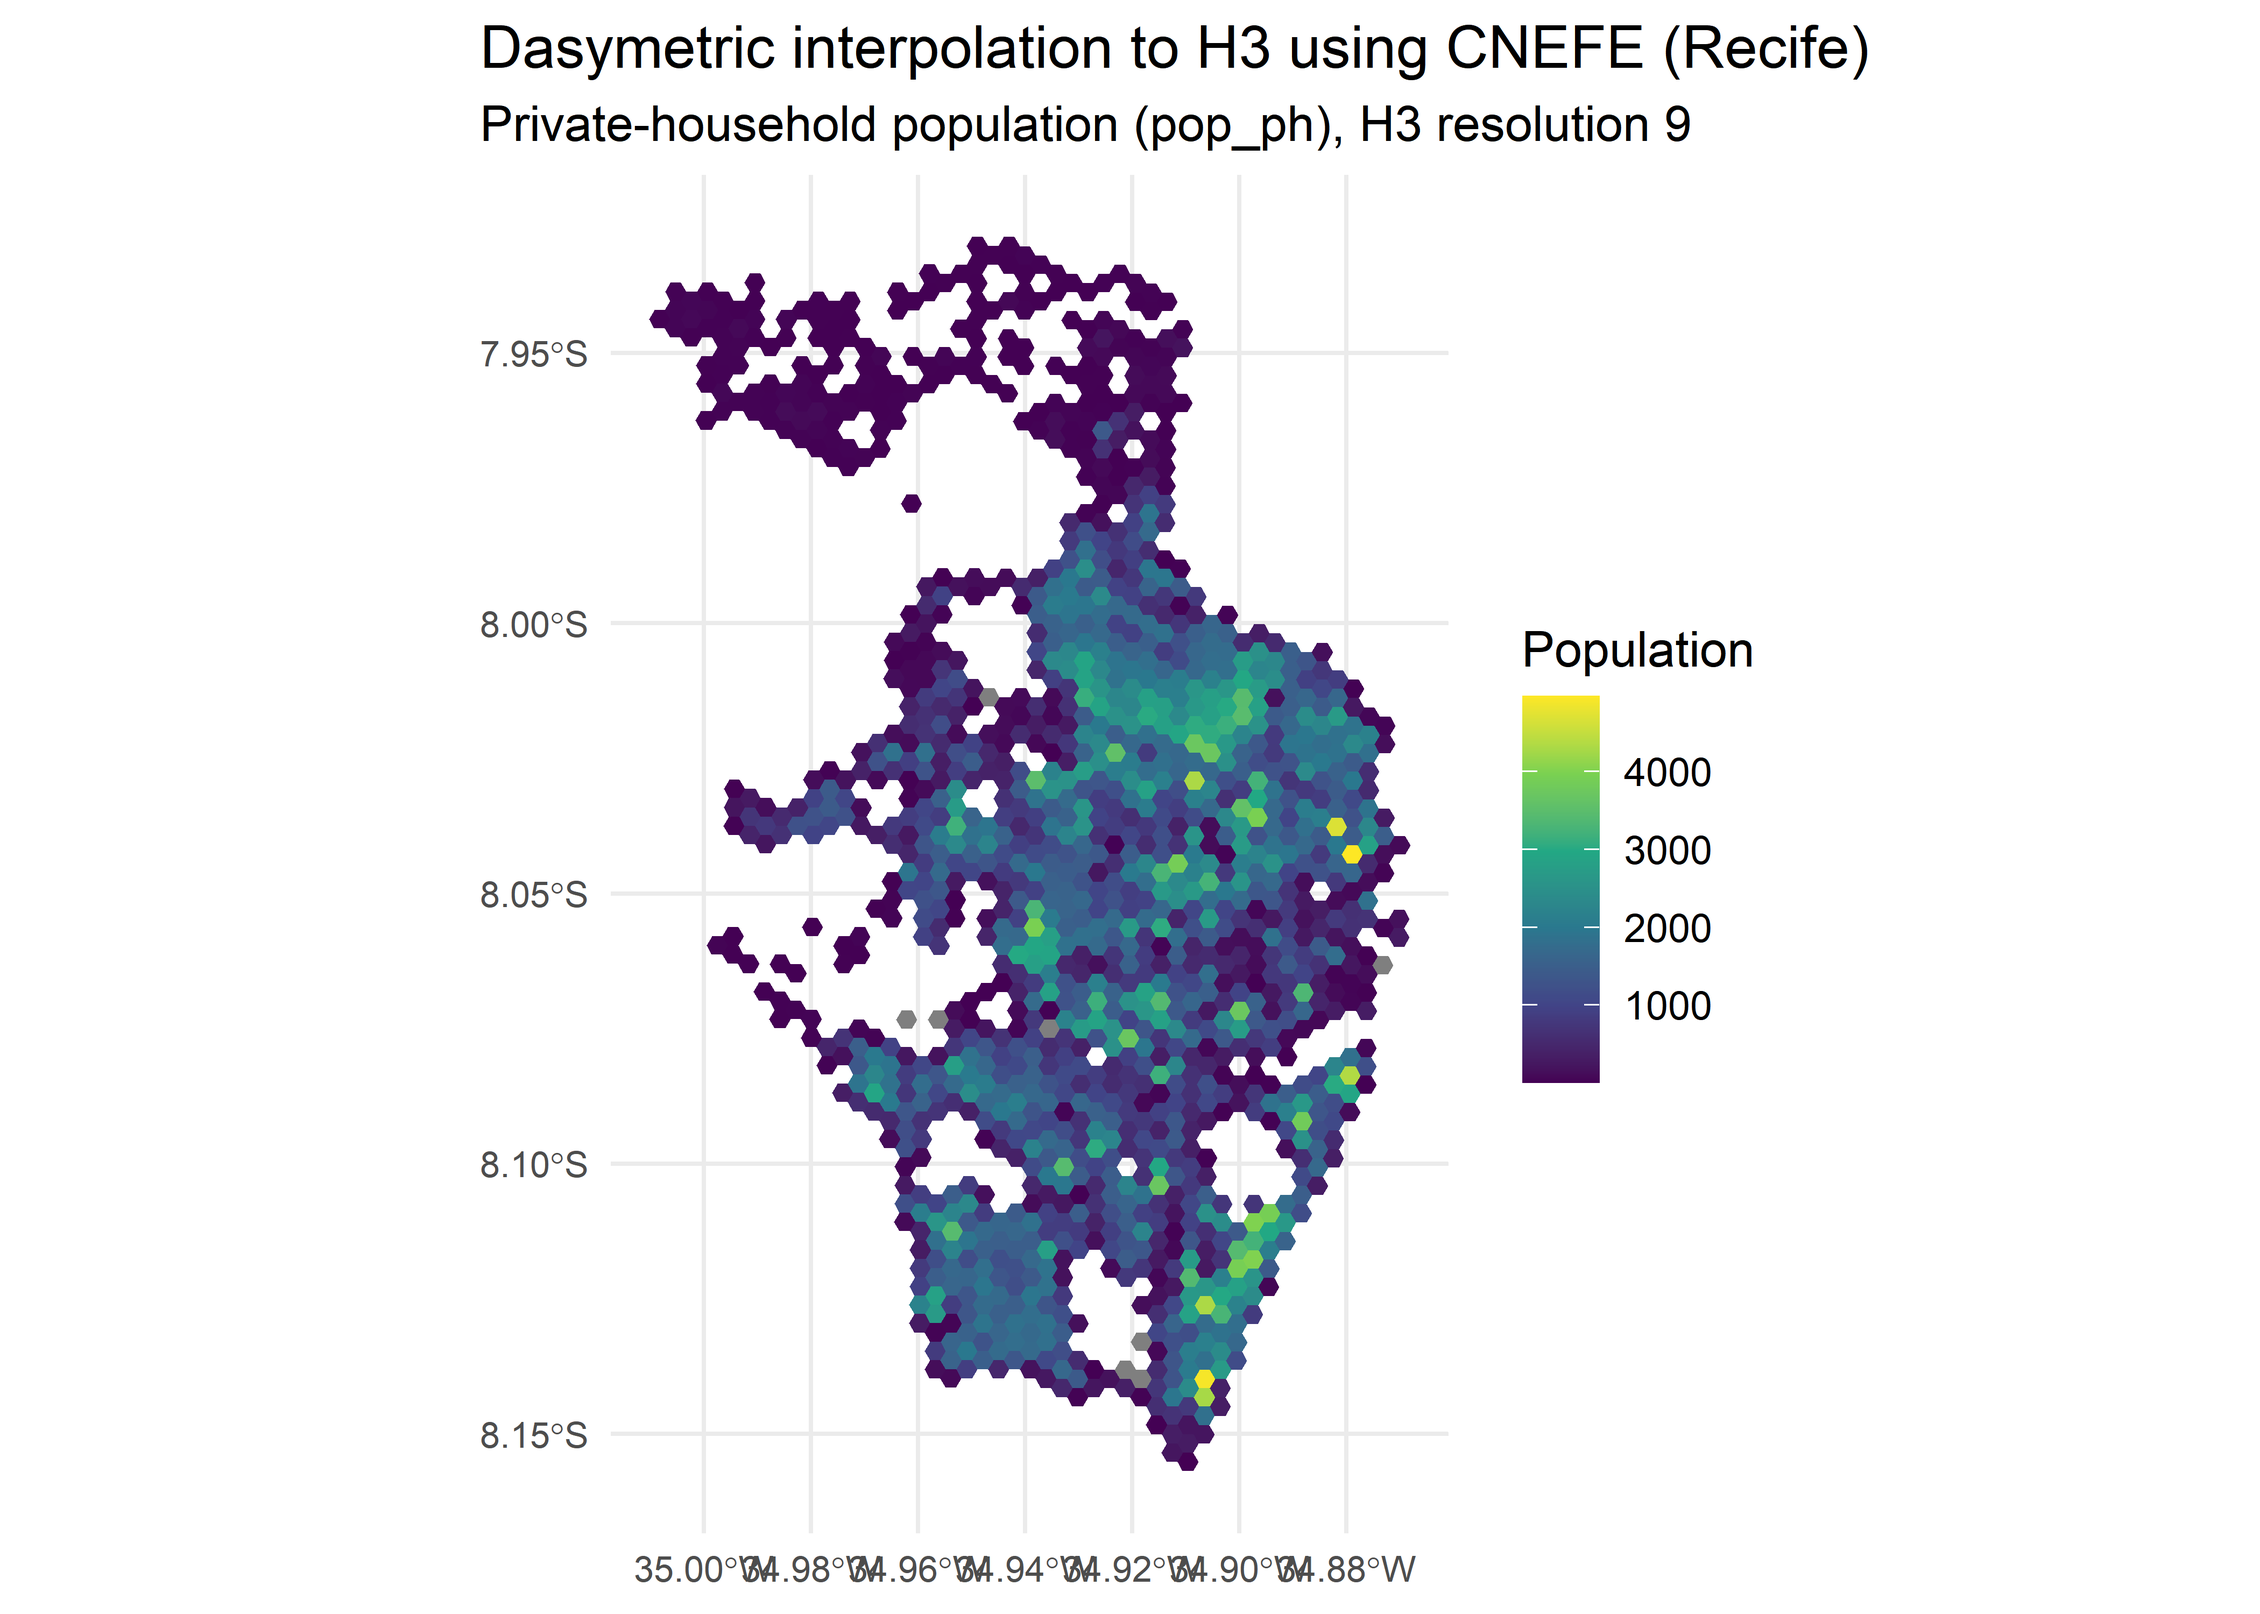
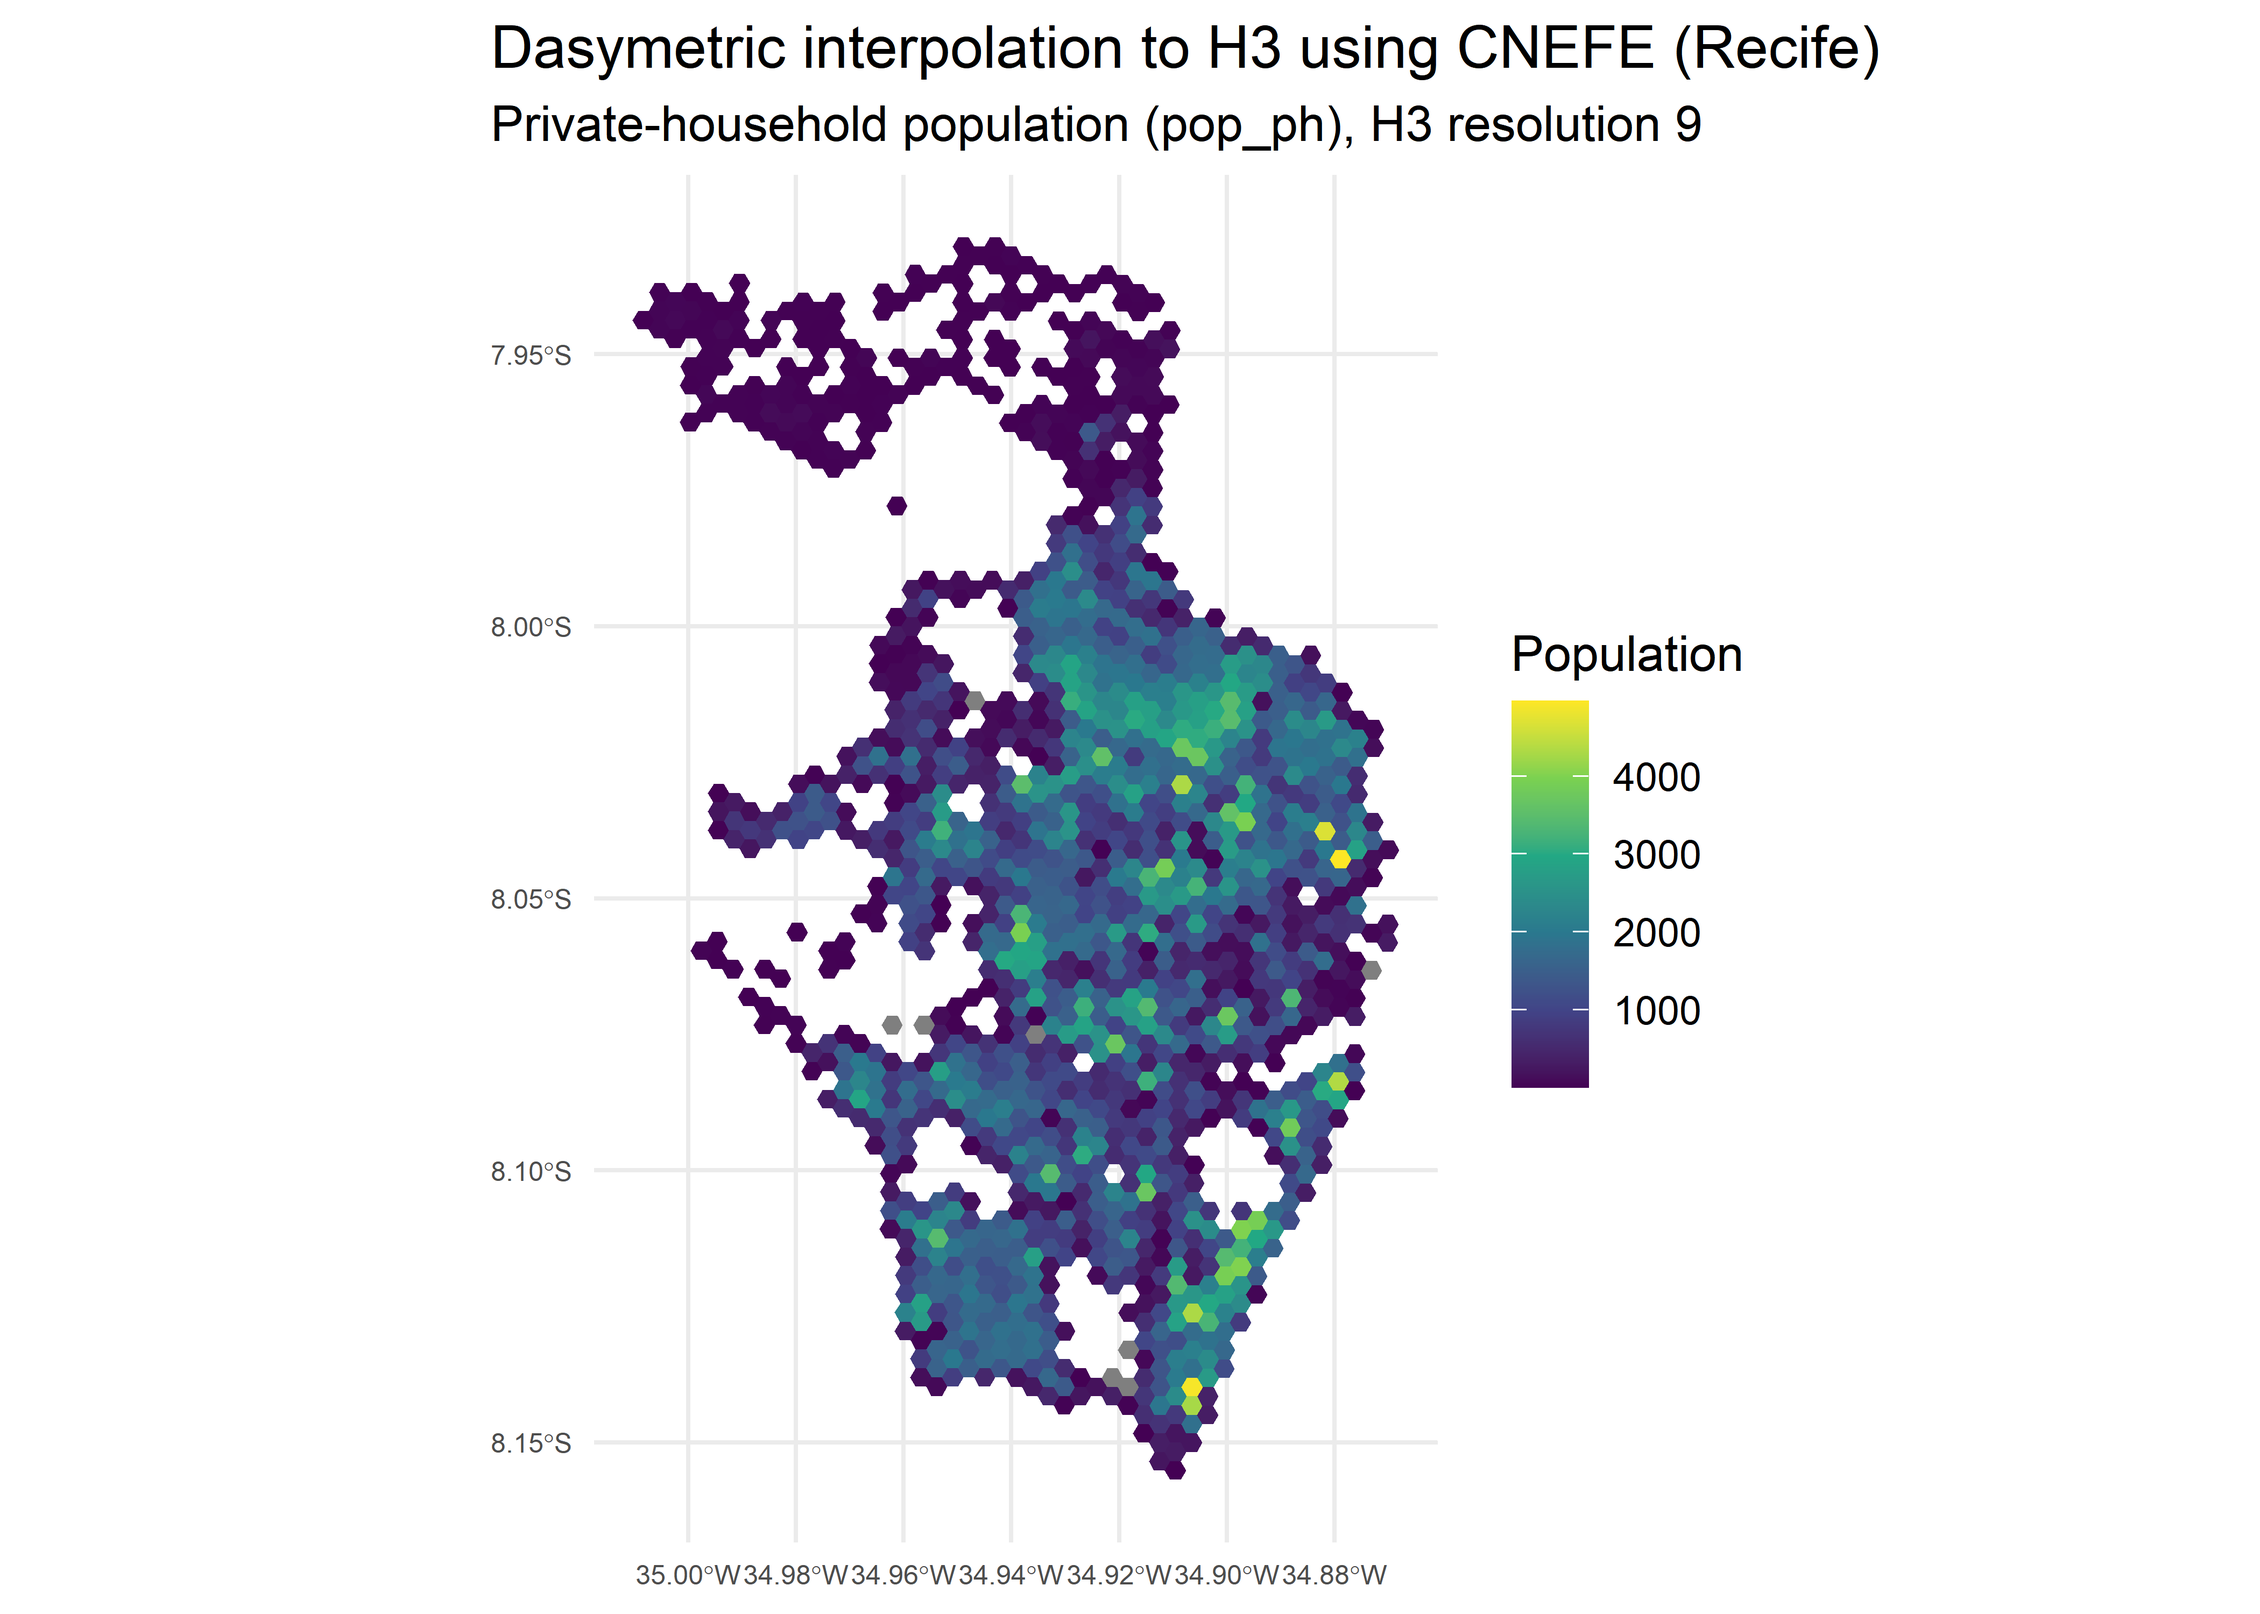
reduce ggplot axis text size from 8 to 6 in README

diff --git a/README.md b/README.md
@@ -174,8 +174,8 @@ ggplot(hex_sp) +
   theme_minimal()+
   theme(
     plot.title.position = "plot",
-    axis.text.x = element_text(size = 8),
-    axis.text.y = element_text(size = 8)
+    axis.text.x = element_text(size = 6),
+    axis.text.y = element_text(size = 6)
   )
 ```
 
@@ -233,8 +233,8 @@ ggplot(lumi_ftl) +
   theme_minimal()+
   theme(
     plot.title.position = "plot",
-    axis.text.x = element_text(size = 8),
-    axis.text.y = element_text(size = 8)
+    axis.text.x = element_text(size = 6),
+    axis.text.y = element_text(size = 6)
   )
 ```
 
@@ -285,8 +285,8 @@ ggplot(rec_hex) +
   theme_minimal() +
   theme(
     plot.title.position = "plot",
-    axis.text.x = element_text(size = 8),
-    axis.text.y = element_text(size = 8)
+    axis.text.x = element_text(size = 6),
+    axis.text.y = element_text(size = 6)
   )
 ```
 
@@ -307,8 +307,8 @@ ggplot(rec_hex) +
   theme_minimal() +
   theme(
     plot.title.position = "plot",
-    axis.text.x = element_text(size = 8),
-    axis.text.y = element_text(size = 8)
+    axis.text.x = element_text(size = 6),
+    axis.text.y = element_text(size = 6)
   )
 ```
 
@@ -361,8 +361,8 @@ ggplot(rec_poly) +
   theme_minimal() +
   theme(
     plot.title.position = "plot",
-    axis.text.x = element_text(size = 8),
-    axis.text.y = element_text(size = 8)
+    axis.text.x = element_text(size = 6),
+    axis.text.y = element_text(size = 6)
   )
 ```
 
